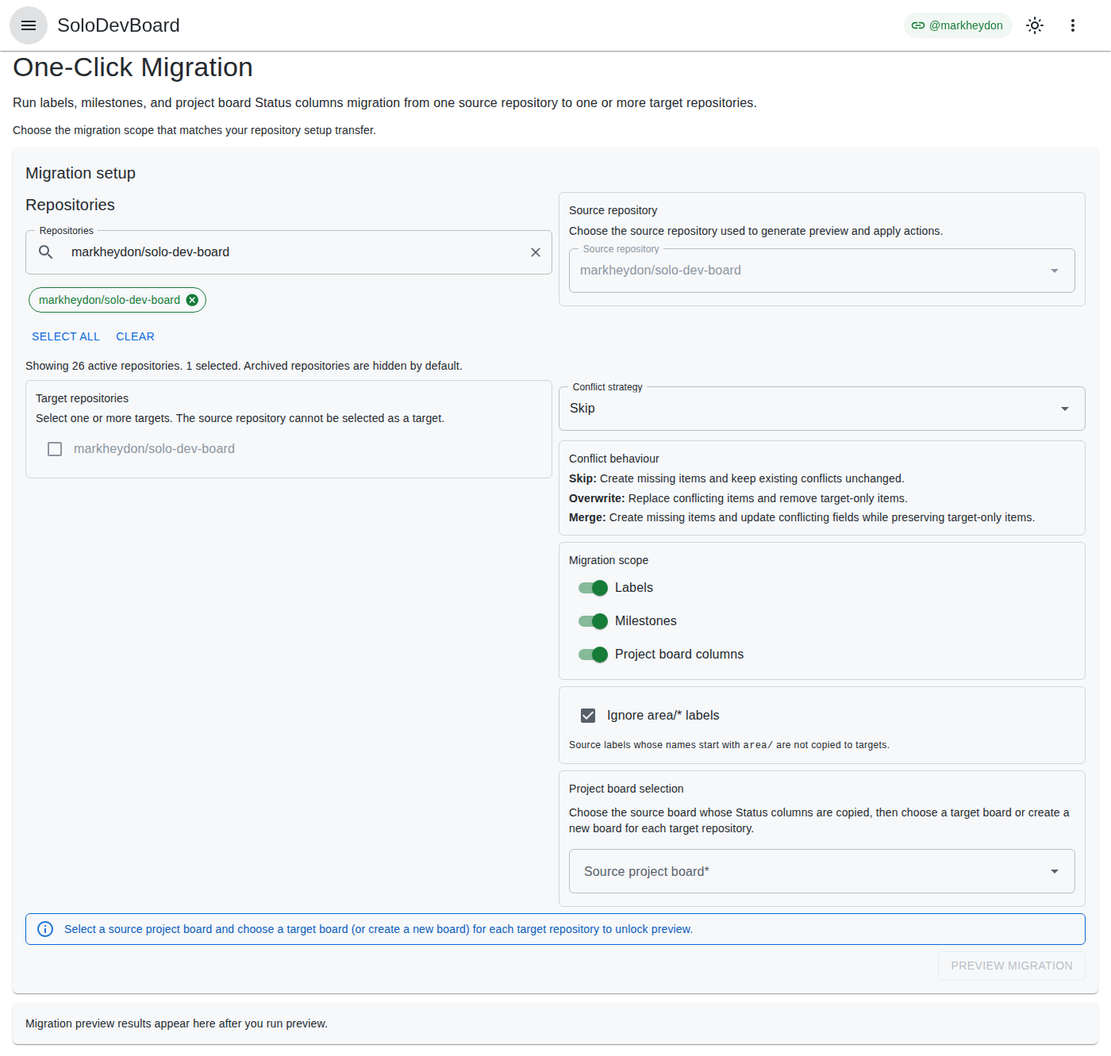
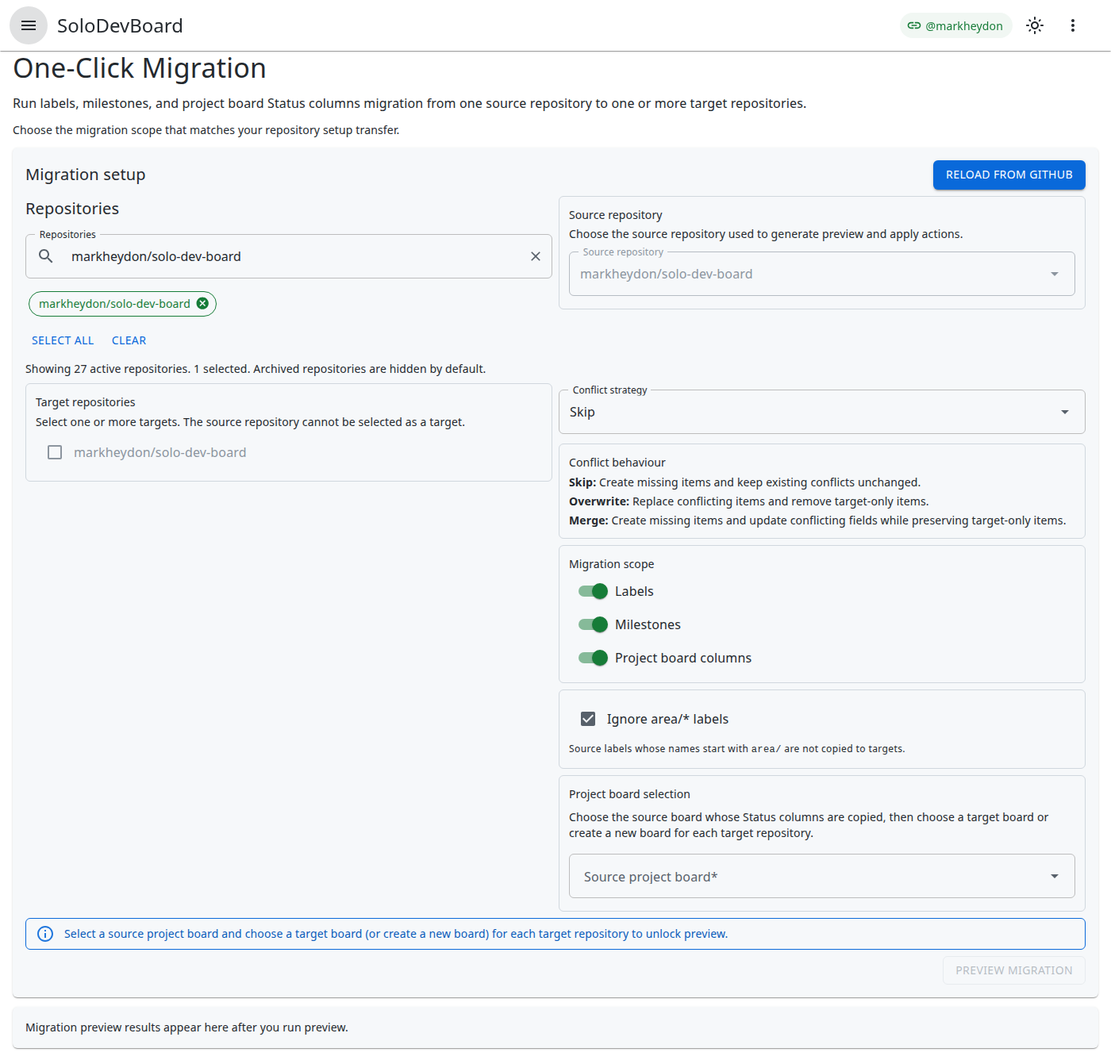
[Documentation] Release v1.2.0 changelog and docs alignment (#516)
* [Documentation] Release v1.2.0 changelog and milestone release-prep updates.

Promote Keep a Changelog [Unreleased] to [1.2.0] with full v1.2 feature notes.
Mark the v1.2 milestone ready to tag (30 closed, 0 open) across release plan,
implementation plan, backlog, project management, and decision log artefacts.

* [Documentation] Align v1.2 E2E inventory and hosted-auth HttpClient note.

Update Triage Playwright journey descriptions for Reload from GitHub and
disposition controls. Document separate OAuth and API HttpClient instances
for hosted sign-in operators.

* [Documentation] Recapture v1.2 user guide screenshots with docs-capture mode.

Refresh all 14 Hugo static images after v1.2 UI changes (Reload from GitHub,
custom Actions template source, Daily Focus board-scoped recommendations,
Triage Save and next session scope). Captured at 1400×900 light theme with
DocsCapture:Enabled=true against markheydon/solo-dev-board.

---------

diff --git a/tests/E2E/USER_DOCS_ALIGNMENT.md b/tests/E2E/USER_DOCS_ALIGNMENT.md
@@ -32,7 +32,7 @@ When you add or change an end-user feature, update the user guide, the relevant 
 | [One-Click Migration](../../website/content/docs/one-click-migration.md) | `/migrate` | `migrate.spec.ts`, `accessibility.spec.ts` | `one-click-migration/overview.png` | Tier 2 | Guide is Available: labels, milestones, and Projects v2 Status columns with keep/ignore `area/*` controls; **Reload from GitHub** keeps migration pickers. CI asserts setup shell, reload control, columns scope, nested ignore/keep `area/*` controls, disabled preview, and API failure feedback. |
 | [Label Manager](../../website/content/docs/label-manager.md) | `/labels` | `labels.spec.ts`, `accessibility.spec.ts` | `label-manager/overview.png` | Tier 2 | Guide describes three tabs, Labels-tab bulk delete ([#444](https://github.com/markheydon/solo-dev-board/issues/444)), taxonomy workflows, optional **Remove labels outside taxonomy** strict delete ([#380](https://github.com/markheydon/solo-dev-board/issues/380)), nested **Keep `area/*` labels** ([#446](https://github.com/markheydon/solo-dev-board/issues/446)), and **Reload from GitHub** in the repository selector; CI asserts tab strip, reload control, remove-outside control, sync keep-area control, disabled bulk delete, and repository load failure feedback. Empty-repository copy is covered by `LabelsTests`. |
 | [Board Rules Visualiser](../../website/content/docs/board-rules-visualiser.md) | `/board-rules` | `board-rules.spec.ts`, `accessibility.spec.ts` | `board-rules-visualiser/overview.png` | Tier 2 | Guide is Partially Available: compare mode, Reload from GitHub, unsupported-board Try again, and board selection now; full GitHub automation-rule retrieval later ([#437](https://github.com/markheydon/solo-dev-board/issues/437)). CI asserts selector region, compare toggle, Reload from GitHub in the header after the initial catalogue load (including placeholder-auth error states), and repository load failure retry. Unsupported-board Try again and compare-mode reload keep-selection are covered in bUnit. |
-| [Triage UI](../../website/content/docs/triage-ui.md) | `/triage` | `triage.spec.ts`, `accessibility.spec.ts` | `triage-ui/overview.png` | Tier 2 | Guide describes disposition-based Save and next flow, shortcuts, milestones, project board actions, and **Reload from GitHub** in session scope; CI asserts not-started region, reload control, and inline repository load failure with retry. |
+| [Triage UI](../../website/content/docs/triage-ui.md) | `/triage` | `triage.spec.ts`, `accessibility.spec.ts` | `triage-ui/overview.png` | Tier 2 | Guide describes disposition-based Save and next flow, shortcuts, milestones, project board actions, and **Reload from GitHub** in session scope; CI asserts session-scope reload control, inline repository load failure with retry, and disposition controls hidden before a session starts. |
 | [Actions Templates](../../website/content/docs/actions-templates.md) | `/actions-templates` | `actions-templates.spec.ts`, `accessibility.spec.ts` | `actions-templates/overview.png` | Tier 2 | Guide is Partially Available: browse, custom template repositories, parameterise, apply, drift, and **Reload from GitHub** now; persisted parameter profiles ([#436](https://github.com/markheydon/solo-dev-board/issues/436)) later. CI asserts built-in template browse/filter/select, reload control, built-in-only catalogue with empty custom source, custom source region and manual field shells (catalogue selector when repositories load), invalid custom source error with built-ins visible, and repository error state ([#499](https://github.com/markheydon/solo-dev-board/issues/499)). |
 | [Planning](../../website/content/docs/planning.md) | `/planning`, `/planning/daily-focus`, `/planning/backlog`, `/planning/iteration`, `/planning/repos`, `/planning/board-setup` (conditional) | `planning.spec.ts`, `accessibility.spec.ts` | `planning/daily-focus.png`, `planning/backlog.png`, `planning/iteration.png`, `planning/repos.png` | Tier 2 | Guide documents Daily Focus occupancy, recommendations, stalled Up Next, stalled review pull requests, Backlog Review grouping, Iteration (capacity, stall gate, Up Next batch, bulk milestone, candidate picker; [#283](https://github.com/markheydon/solo-dev-board/issues/283)–[#286](https://github.com/markheydon/solo-dev-board/issues/286)), conditional Board setup compatibility ([#445](https://github.com/markheydon/solo-dev-board/issues/445)), and Repo Management. User Guide sidebar and feature table follow app drawer order; Appearance and About live under a separate **App shell** Hugo section so prev/next stops at the last feature. CI asserts shell, tab strip, Daily Focus occupancy, recommendation, stalled Up Next, and stalled-review regions or empty/error/warning copy, Backlog filters and all grouping panels (including awaiting triage, epics near completion, and neglected repositories) or empty/error/warning copy, Planning Up Next and candidate regions or empty/error/warning copy, and Repos regions (including per-repository summary) or chrome error. |
 | [Appearance](../../website/content/docs/app-shell/appearance.md) | App bar (all shell pages) | `appearance.spec.ts`, `accessibility.spec.ts` | `appearance/theme-toggle.png` | Tier 1 | Guide describes Automatic → Light → Dark cycling and persistence; not a drawer route. Lives under User Guide **App shell** (`/docs/app-shell/`) with About; prev/next does not continue from feature guides. |

diff --git a/plan/DECISIONS.md b/plan/DECISIONS.md
@@ -259,7 +259,7 @@ Test coverage expectations for cache-hit, cache-miss, invalidation, TTL expiry, 
 **Date:** 2026-08-18  
 **Constitution:** [AGENTS.md — When Adding a New Feature](../AGENTS.md#when-adding-a-new-feature)  
 **Related:** [DEC-024](#dec-024-post-10-milestone-numbering), [`plan/PROJECT_MANAGEMENT.md`](PROJECT_MANAGEMENT.md)  
-**Summary:** After `v1.0.0`, maintain **one open GitHub milestone** at a time (currently **`v1.2 - Planning polish, Reload & Templates`**; release tag **`v1.2.0`** when shipped). **`v1.1 - Cross-Repo Planning & Refinement`** is closed (91 closed, 0 open; tag [`v1.1.0`](https://github.com/markheydon/solo-dev-board/releases/tag/v1.1.0), 2026-08-31). Locked-in `v1.2` issues are [#403](https://github.com/markheydon/solo-dev-board/issues/403) (board-scoped Daily Focus), Reload epic [#447](https://github.com/markheydon/solo-dev-board/issues/447) with [#449](https://github.com/markheydon/solo-dev-board/issues/449)–[#451](https://github.com/markheydon/solo-dev-board/issues/451), HttpClient split [#453](https://github.com/markheydon/solo-dev-board/issues/453), custom template repositories [#292](https://github.com/markheydon/solo-dev-board/issues/292), and Triage action-surface usability [#492](https://github.com/markheydon/solo-dev-board/issues/492). Window-focus refetch [#450](https://github.com/markheydon/solo-dev-board/issues/450) stays unmilestoned and ice-boxed. Do not recreate a separate milestone whose only purpose is Cross-Repo Planning — that increment shipped under `v1.1` (the brief unused v1.2.0 planning-only milestone was deleted on 2026-08-18). Platform-blocked work ([#293](https://github.com/markheydon/solo-dev-board/issues/293), [#391](https://github.com/markheydon/solo-dev-board/issues/391)) and newer ice-box catalogue work stay unmilestoned. **Epic → Feature → Story** applies when each level names real product structure: Epics are shippable themes spanning multiple features (not milestone buckets); Features group related stories/enablers ([#272](https://github.com/markheydon/solo-dev-board/issues/272) is a catch-up exception — classified as a feature without a parent epic); Stories are delivery units. Use GitHub sub-issues for parent links. During catch-up, milestone stories may sit without Feature parents when they complete shipped features ([#40](https://github.com/markheydon/solo-dev-board/issues/40), [#88](https://github.com/markheydon/solo-dev-board/issues/88), etc.). Implementation **phases** in `IMPLEMENTATION_PLAN.md` are historical sequencing for the v1.0 release only; the Project board **Phase** field is legacy for closed pre-1.0 milestones. Reject bucket epics that duplicate milestones, fabricated Features, and multiple concurrent open milestones.
+**Summary:** After `v1.0.0`, maintain **one open GitHub milestone** at a time. **`v1.2 - Planning polish, Reload & Templates`** is the current open milestone and is **ready to tag** as **`v1.2.0`** (30 closed, 0 open on GitHub; 2026-09-07). **`v1.1 - Cross-Repo Planning & Refinement`** is closed (91 closed, 0 open; tag [`v1.1.0`](https://github.com/markheydon/solo-dev-board/releases/tag/v1.1.0), 2026-08-31). Delivered `v1.2` scope: [#403](https://github.com/markheydon/solo-dev-board/issues/403) (board-scoped Daily Focus), Reload epic [#447](https://github.com/markheydon/solo-dev-board/issues/447) with [#449](https://github.com/markheydon/solo-dev-board/issues/449)–[#451](https://github.com/markheydon/solo-dev-board/issues/451), HttpClient split [#453](https://github.com/markheydon/solo-dev-board/issues/453), custom template repositories [#292](https://github.com/markheydon/solo-dev-board/issues/292), and Triage action-surface usability [#492](https://github.com/markheydon/solo-dev-board/issues/492). Window-focus refetch [#450](https://github.com/markheydon/solo-dev-board/issues/450) stays unmilestoned and ice-boxed. Do not recreate a separate milestone whose only purpose is Cross-Repo Planning — that increment shipped under `v1.1` (the brief unused v1.2.0 planning-only milestone was deleted on 2026-08-18). Platform-blocked work ([#293](https://github.com/markheydon/solo-dev-board/issues/293), [#391](https://github.com/markheydon/solo-dev-board/issues/391)) and newer ice-box catalogue work stay unmilestoned. **Epic → Feature → Story** applies when each level names real product structure: Epics are shippable themes spanning multiple features (not milestone buckets); Features group related stories/enablers ([#272](https://github.com/markheydon/solo-dev-board/issues/272) is a catch-up exception — classified as a feature without a parent epic); Stories are delivery units. Use GitHub sub-issues for parent links. During catch-up, milestone stories may sit without Feature parents when they complete shipped features ([#40](https://github.com/markheydon/solo-dev-board/issues/40), [#88](https://github.com/markheydon/solo-dev-board/issues/88), etc.). Implementation **phases** in `IMPLEMENTATION_PLAN.md` are historical sequencing for the v1.0 release only; the Project board **Phase** field is legacy for closed pre-1.0 milestones. Reject bucket epics that duplicate milestones, fabricated Features, and multiple concurrent open milestones.
 
 **Milestone naming:** GitHub milestones use `vX.Y - Descriptive name` (ASCII hyphen with spaces; no patch segment). Git release tags keep SemVer `vX.Y.Z` (MinVer). See [`plan/PROJECT_MANAGEMENT.md`](PROJECT_MANAGEMENT.md#milestones).
 

diff --git a/plan/IMPLEMENTATION_PLAN.md b/plan/IMPLEMENTATION_PLAN.md
@@ -12,7 +12,7 @@ Phases in this document are **historical sequencing for the v1.0 release**. Post
 - Phases 1–4 are complete. All six core feature areas are delivered (Label Manager, Audit Dashboard, One-Click Migration, Triage UI, Board Rules Visualiser, Actions Templates).
 - Phase 6 (Production Ready) is complete. Public release [`v1.0.0`](https://github.com/markheydon/solo-dev-board/releases/tag/v1.0.0) tagged on 2026-08-18.
 - **`v1.1 - Cross-Repo Planning & Refinement`** is complete (tag [`v1.1.0`](https://github.com/markheydon/solo-dev-board/releases/tag/v1.1.0), 2026-08-31): deferred v1.0 slices [#290](https://github.com/markheydon/solo-dev-board/issues/290) and [#291](https://github.com/markheydon/solo-dev-board/issues/291), Planning [#272](https://github.com/markheydon/solo-dev-board/issues/272)–[#288](https://github.com/markheydon/solo-dev-board/issues/288), OSS catalogue identification [#440](https://github.com/markheydon/solo-dev-board/issues/440), and post-release refinements ([#444](https://github.com/markheydon/solo-dev-board/issues/444)–[#446](https://github.com/markheydon/solo-dev-board/issues/446), [#465](https://github.com/markheydon/solo-dev-board/issues/465), [#473](https://github.com/markheydon/solo-dev-board/issues/473), [#464](https://github.com/markheydon/solo-dev-board/issues/464)–[#471](https://github.com/markheydon/solo-dev-board/issues/471)).
-- **`v1.2 - Planning polish, Reload & Templates`** is the open milestone (tag `v1.2.0` when shipped): Daily Focus board-scope [#403](https://github.com/markheydon/solo-dev-board/issues/403), Reload [#447](https://github.com/markheydon/solo-dev-board/issues/447)/[#449](https://github.com/markheydon/solo-dev-board/issues/449)/[#451](https://github.com/markheydon/solo-dev-board/issues/451), HttpClient split [#453](https://github.com/markheydon/solo-dev-board/issues/453), custom templates [#292](https://github.com/markheydon/solo-dev-board/issues/292), Triage action-surface usability [#492](https://github.com/markheydon/solo-dev-board/issues/492).
+- **`v1.2 - Planning polish, Reload & Templates`** is ready to tag (30 closed, 0 open on the GitHub milestone; release tag `v1.2.0` after staging smoke test): Daily Focus board-scope [#403](https://github.com/markheydon/solo-dev-board/issues/403), Reload [#447](https://github.com/markheydon/solo-dev-board/issues/447)/[#449](https://github.com/markheydon/solo-dev-board/issues/449)/[#451](https://github.com/markheydon/solo-dev-board/issues/451), HttpClient split [#453](https://github.com/markheydon/solo-dev-board/issues/453), custom templates [#292](https://github.com/markheydon/solo-dev-board/issues/292), Triage action-surface usability [#492](https://github.com/markheydon/solo-dev-board/issues/492).
 - [#293](https://github.com/markheydon/solo-dev-board/issues/293) (hosted private Projects v2) and [#391](https://github.com/markheydon/solo-dev-board/issues/391) stay unmilestoned platform-blocked backlog. Window-focus refetch [#450](https://github.com/markheydon/solo-dev-board/issues/450) stays unmilestoned and ice-boxed until Reload ships.
 
 For the full feature scope, see [SCOPE.md](SCOPE.md). For open work, see [GitHub Issues](https://github.com/markheydon/solo-dev-board/issues) and [Project #8](https://github.com/users/markheydon/projects/8). The backlog index is at [BACKLOG.md](BACKLOG.md).
@@ -262,16 +262,16 @@ All locked-in leaves are closed. Shipped as [`v1.1.0`](https://github.com/markhe
 
 **Milestone:** `v1.2 - Planning polish, Reload & Templates` (release tag `v1.2.0`)
 
-**Status:** Open (declared 2026-08-31).
+**Status:** Ready to tag — **30 closed, 0 open** on GitHub milestone `v1.2 - Planning polish, Reload & Templates` (declared 2026-08-31).
 
 ### Key Tasks
 
-- [ ] Optional board-scoped Daily Focus recommendations, default remains all included repositories. _(#403)_
-- [ ] Reload from GitHub on Board Rules, keeping repository (and comparison) selection. _(#449)_
-- [ ] Roll Reload from GitHub out to remaining GitHub-backed surfaces. _(#451, parent epic #447)_
-- [ ] Split hosted GitHub OAuth and API HttpClients for REST header defaults. _(#453)_
+- [x] Optional board-scoped Daily Focus recommendations, default remains all included repositories. _(#403)_
+- [x] Reload from GitHub on Board Rules, keeping repository (and comparison) selection. _(#449)_
+- [x] Roll Reload from GitHub out to remaining GitHub-backed surfaces. _(#451, parent epic #447)_
+- [x] Split hosted GitHub OAuth and API HttpClients for REST header defaults. _(#453)_
 - [x] Custom workflow template repositories: one GitHub YAML source (catalogue selector or manual field), inferred parameters, apply/drift parity, last-used localStorage. _(#292, DEC-038)_
-- [ ] Unify the Triage action surface into Save and next (process) versus duplicate versus skip — usability only, not opinionated-workflow integration. _(#492)_
+- [x] Unify the Triage action surface into Save and next (process) versus duplicate versus skip — usability only, not opinionated-workflow integration. _(#492)_
 
 ### Delivery sequence
 

diff --git a/plan/PROJECT_README.md b/plan/PROJECT_README.md
@@ -17,11 +17,11 @@ Refresh this file during each [PM progress review](../.agents/workflows/pm-progr
 
 SoloDevBoard provides a single pane of glass for solo developers managing GitHub workloads across multiple repositories.
 
-**Status:** On track. Public releases [v1.0.0](https://github.com/markheydon/solo-dev-board/releases/tag/v1.0.0) (18 August 2026) and [v1.1.0](https://github.com/markheydon/solo-dev-board/releases/tag/v1.1.0) (31 August 2026). Open milestone: [`v1.2 - Planning polish, Reload & Templates`](https://github.com/markheydon/solo-dev-board/milestone/8).
+**Status:** On track. Public releases [v1.0.0](https://github.com/markheydon/solo-dev-board/releases/tag/v1.0.0) (18 August 2026), [v1.1.0](https://github.com/markheydon/solo-dev-board/releases/tag/v1.1.0) (31 August 2026), and forthcoming [v1.2.0](https://github.com/markheydon/solo-dev-board/releases/tag/v1.2.0) (ready to tag). Open milestone: [`v1.2 - Planning polish, Reload & Templates`](https://github.com/markheydon/solo-dev-board/milestone/8) — **30 closed, 0 open**.
 
 ### Current focus
 
-**`v1.2`** — Daily Focus board-scope ([#403](https://github.com/markheydon/solo-dev-board/issues/403)), Reload from GitHub ([#447](https://github.com/markheydon/solo-dev-board/issues/447), [#449](https://github.com/markheydon/solo-dev-board/issues/449), [#451](https://github.com/markheydon/solo-dev-board/issues/451)), HttpClient split ([#453](https://github.com/markheydon/solo-dev-board/issues/453)), custom template repositories ([#292](https://github.com/markheydon/solo-dev-board/issues/292)), Triage action-surface usability ([#492](https://github.com/markheydon/solo-dev-board/issues/492)). Do not start platform-blocked [#293](https://github.com/markheydon/solo-dev-board/issues/293) or [#391](https://github.com/markheydon/solo-dev-board/issues/391). Window-focus refetch ([#450](https://github.com/markheydon/solo-dev-board/issues/450)) stays unmilestoned and ice-boxed.
+**`v1.2`** — delivery complete. Tag **`v1.2.0`** after staging smoke test and GitHub Release publication. Do not start platform-blocked [#293](https://github.com/markheydon/solo-dev-board/issues/293) or [#391](https://github.com/markheydon/solo-dev-board/issues/391). Window-focus refetch ([#450](https://github.com/markheydon/solo-dev-board/issues/450)) stays unmilestoned and ice-boxed.
 
 ### Release history
 
@@ -33,13 +33,13 @@ SoloDevBoard provides a single pane of glass for solo developers managing GitHub
 | Visualisation + Templates | `v0.4 - Board Rules Visualiser + Workflow Templates` | `v0.4.0` | Complete |
 | Production Ready | `v1.0 - Production Ready` | `v1.0.0` | Complete |
 | Cross-Repo Planning & Refinement | `v1.1 - Cross-Repo Planning & Refinement` | `v1.1.0` | Complete — [`v1.1.0`](https://github.com/markheydon/solo-dev-board/releases/tag/v1.1.0) (2026-08-31) |
-| Planning polish, Reload & Templates | `v1.2 - Planning polish, Reload & Templates` | `v1.2.0` | Open |
+| Planning polish, Reload & Templates | `v1.2 - Planning polish, Reload & Templates` | `v1.2.0` | Ready to tag |
 
 Post-1.0 model: one open milestone at a time ([DEC-027](https://github.com/markheydon/solo-dev-board/blob/main/plan/DECISIONS.md#dec-027-post-10-milestone-and-work-item-hierarchy)).
 
 ### Current snapshot
 
-Snapshot date: 1 September 2026.
+Snapshot date: 7 September 2026.
 
 | Milestone | Closed | Open | Complete |
 |---|---:|---:|---|
@@ -49,9 +49,9 @@ Snapshot date: 1 September 2026.
 | `v0.4 - Board Rules Visualiser + Workflow Templates` | 25 | 0 | 100% |
 | `v1.0 - Production Ready` | 78 | 0 | 100% |
 | `v1.1 - Cross-Repo Planning & Refinement` | 91 | 0 | 100% |
-| `v1.2 - Planning polish, Reload & Templates` | 0 | 7 | 0% |
+| `v1.2 - Planning polish, Reload & Templates` | 30 | 0 | 100% |
 
-Open milestone: `v1.2 - Planning polish, Reload & Templates`. Phase stays blank for this increment ([DEC-027](https://github.com/markheydon/solo-dev-board/blob/main/plan/DECISIONS.md#dec-027-post-10-milestone-and-work-item-hierarchy)).
+Open milestone: `v1.2 - Planning polish, Reload & Templates` (ready to tag `v1.2.0`). Phase stays blank for this increment ([DEC-027](https://github.com/markheydon/solo-dev-board/blob/main/plan/DECISIONS.md#dec-027-post-10-milestone-and-work-item-hierarchy)).
 
 ### Key resources
 

diff --git a/CHANGELOG.md b/CHANGELOG.md
@@ -7,9 +7,35 @@ and this project adheres to [Semantic Versioning](https://semver.org/spec/v2.0.0
 
 ## [Unreleased]
 
+## [1.2.0] - 2026-09-07
+
+Planning polish, Reload & Templates release. GitHub milestone [`v1.2 - Planning polish, Reload & Templates`](https://github.com/markheydon/solo-dev-board/milestone/8) closed with 30 issues delivered.
+
 ### Added
 
+- **Planning** — optional **Limit Recommended today to the selected planning board** switch on Daily Focus; the default remains all included repositories ([#403](https://github.com/markheydon/solo-dev-board/issues/403)).
+- **Reload from GitHub** — page-level reload that keeps repository, board, and in-page selections across Audit Dashboard, Repositories, One-Click Migration, Label Manager, Board Rules Visualiser, Triage UI, Actions Templates, and related catalogue surfaces ([#447](https://github.com/markheydon/solo-dev-board/issues/447), [#449](https://github.com/markheydon/solo-dev-board/issues/449), [#451](https://github.com/markheydon/solo-dev-board/issues/451)).
 - **Actions Templates** — load one additional GitHub `owner/name` custom template source via the catalogue selector or a manual field, merge `.github/workflows` YAML with built-ins, and remember the last-used source in browser storage ([#292](https://github.com/markheydon/solo-dev-board/issues/292), [#497](https://github.com/markheydon/solo-dev-board/issues/497)).
+- **Triage UI** — disposition-based **Save and next**, **Close as duplicate and next**, and **Skip and next** primary actions with keyboard shortcuts ([#492](https://github.com/markheydon/solo-dev-board/issues/492)).
+
+### Changed
+
+- **Triage UI** — milestone and project board fields commit with the quick label in one **Save and next** action instead of separate primary buttons ([#492](https://github.com/markheydon/solo-dev-board/issues/492)).
+- **Hosted authentication** — separate named `HttpClient` instances for GitHub OAuth token exchange and GitHub REST API calls so REST requests use the correct `Accept` and `User-Agent` defaults ([#453](https://github.com/markheydon/solo-dev-board/issues/453)).
+
+### Fixed
+
+- **Triage UI** — closing an item as duplicate no longer removes labels that were not part of the duplicate disposition ([#488](https://github.com/markheydon/solo-dev-board/issues/488), [#502](https://github.com/markheydon/solo-dev-board/issues/502)).
+- **Triage UI** — **Process** no longer replaces the full label set when only a quick label is applied ([#502](https://github.com/markheydon/solo-dev-board/issues/502)).
+
+### Known limitations (not in this release)
+
+- Persisted default workflow template parameter profiles ([#436](https://github.com/markheydon/solo-dev-board/issues/436)) remain planned for a later release.
+- Server-backed persistence for the custom Actions template source waits on an Aspire product store ([#498](https://github.com/markheydon/solo-dev-board/issues/498), blocked by [#391](https://github.com/markheydon/solo-dev-board/issues/391)).
+- Private user-owned Projects v2 under hosted GitHub App sign-in remain platform-blocked ([#293](https://github.com/markheydon/solo-dev-board/issues/293)).
+- Repositories Add / Remove / Bulk / Edit / More actions remain stubs ([#435](https://github.com/markheydon/solo-dev-board/issues/435)).
+- Full GitHub Project v2 automation-rule retrieval remains a later Board Rules slice ([#437](https://github.com/markheydon/solo-dev-board/issues/437)).
+- Window-focus refetch after Reload from GitHub remains ice-boxed ([#450](https://github.com/markheydon/solo-dev-board/issues/450)).
 
 ## [1.1.0] - 2026-08-31
 

diff --git a/plan/BACKLOG.md b/plan/BACKLOG.md
@@ -13,7 +13,7 @@ For historical backlog content (pre-migration), see [archive/BACKLOG-2026-07-18.
 | [Project info pane README](PROJECT_README.md) | Canonical copy of the Project #8 info pane text |
 | [Milestones](https://github.com/markheydon/solo-dev-board/milestones) | Release targeting |
 
-## Roadmap status (2026-08-31)
+## Roadmap status (2026-09-07)
 
 | Release | GitHub milestone | Release tag | Status |
 |---------|------------------|-------------|--------|
@@ -23,9 +23,9 @@ For historical backlog content (pre-migration), see [archive/BACKLOG-2026-07-18.
 | Visualisation + Templates | `v0.4 - Board Rules Visualiser + Workflow Templates` | `v0.4.0` | Complete |
 | Production Ready | `v1.0 - Production Ready` | `v1.0.0` | Complete — [`v1.0.0`](https://github.com/markheydon/solo-dev-board/releases/tag/v1.0.0) (2026-08-18) |
 | Cross-Repo Planning & Refinement | `v1.1 - Cross-Repo Planning & Refinement` | `v1.1.0` | Complete — [`v1.1.0`](https://github.com/markheydon/solo-dev-board/releases/tag/v1.1.0) (2026-08-31) |
-| Planning polish, Reload & Templates | `v1.2 - Planning polish, Reload & Templates` | `v1.2.0` | Open — [milestone](https://github.com/markheydon/solo-dev-board/milestone/8) |
+| Planning polish, Reload & Templates | `v1.2 - Planning polish, Reload & Templates` | `v1.2.0` | Ready to tag — [milestone](https://github.com/markheydon/solo-dev-board/milestone/8) (30 closed, 0 open) |
 
-The open milestone is `v1.2 - Planning polish, Reload & Templates`. Further work stays unmilestoned until the next release is declared.
+The open milestone is `v1.2 - Planning polish, Reload & Templates`. Tag `v1.2.0` after staging smoke test and GitHub Release publication. Further work stays unmilestoned until the next release is declared.
 
 **Unmilestoned backlog:** [#293](https://github.com/markheydon/solo-dev-board/issues/293) (platform-blocked private user-owned Projects v2 under hosted sign-in); [#391](https://github.com/markheydon/solo-dev-board/issues/391) (Aspire PM settings store); [#498](https://github.com/markheydon/solo-dev-board/issues/498) (persist Actions template source — blocked by #391); [#450](https://github.com/markheydon/solo-dev-board/issues/450) (window-focus refetch — ice-box, later Reload follow-up); ice-box catalogue and hygiene work ([#381](https://github.com/markheydon/solo-dev-board/issues/381), [#397](https://github.com/markheydon/solo-dev-board/issues/397), [#411](https://github.com/markheydon/solo-dev-board/issues/411), [#435](https://github.com/markheydon/solo-dev-board/issues/435)–[#439](https://github.com/markheydon/solo-dev-board/issues/439), [#470](https://github.com/markheydon/solo-dev-board/issues/470)). Closed ice-box direction: [#475](https://github.com/markheydon/solo-dev-board/issues/475) (see [`PRODUCT_OPERATING_SYSTEM.md`](PRODUCT_OPERATING_SYSTEM.md)). See [open issues](https://github.com/markheydon/solo-dev-board/issues?q=is%3Aissue+is%3Aopen).
 

diff --git a/tests/E2E/CRITICAL_JOURNEYS.md b/tests/E2E/CRITICAL_JOURNEYS.md
@@ -42,7 +42,7 @@ For data-driven journeys against a real GitHub account, run the PAT suite locall
 | Board Rules selector, compare mode, and Reload from GitHub | `board-rules.spec.ts` | Selector region, compare toggle, Reload from GitHub when the catalogue loads (placeholder auth keeps repository error retry), and repository load failure. Compare-mode reload and unsupported-board Try again keep-selection are covered in bUnit. |
 | Label Manager taxonomy tabs, bulk delete shell, keep `area/*` controls, and repository load failure feedback | `labels.spec.ts` | Tab strip, disabled bulk delete, nested keep `area/*` checkbox on Recommended taxonomy when remove-outside is enabled, Synchronise keep control, and repository load failure in the feedback region. |
 | Workflow template browse, filter, select, and custom source shell | `actions-templates.spec.ts` | Built-in templates load with an empty custom source; custom source region and manual field shells; invalid custom source error leaves built-ins visible; apply repository selector shows error ([#499](https://github.com/markheydon/solo-dev-board/issues/499)). |
-| Triage not-started region without repositories | `triage.spec.ts` | Shell heading and no-repositories alert. |
+| Triage shell, Reload from GitHub, and disposition action surface | `triage.spec.ts` | Session-scope reload control, inline repository load failure with retry, and disposition controls hidden before a session starts. |
 | Planning — Daily Focus, Backlog Review, Iteration, and Repo Management shells | `planning.spec.ts` | Shared chrome, Daily Focus occupancy, recommendations, stalled Up Next, and stalled-review regions or empty/error/warning copy, Backlog Review filters and all grouping panels (urgent, ready, awaiting triage, blocked, epics near completion, neglected repositories) or empty/error/warning copy, Iteration Planning Up Next, capacity region, conditional stall gate and pause line, and candidate regions or empty/error/warning copy, Repos tab thresholds, exclusions, and per-repository summary or chrome error with retry. Dedicated `Daily Focus`, `Backlog Review`, `Iteration Planning`, and `Repo Management` describe blocks assert route shells and tab-specific no-board/empty/error states. |
 
 ### Tier 3 — Out of CI scope (manual or future)

diff --git a/plan/RELEASE_PLAN.md b/plan/RELEASE_PLAN.md
@@ -134,7 +134,7 @@ Application version numbers are calculated automatically at build time by [MinVe
 
 **Out of milestone:** Window-focus refetch ([#450](https://github.com/markheydon/solo-dev-board/issues/450), ice-box); hosted private Projects v2 ([#293](https://github.com/markheydon/solo-dev-board/issues/293)); Aspire PM settings store ([#391](https://github.com/markheydon/solo-dev-board/issues/391)); newer ice-box catalogue and hygiene work ([#381](https://github.com/markheydon/solo-dev-board/issues/381), [#397](https://github.com/markheydon/solo-dev-board/issues/397), [#411](https://github.com/markheydon/solo-dev-board/issues/411), [#435](https://github.com/markheydon/solo-dev-board/issues/435)–[#439](https://github.com/markheydon/solo-dev-board/issues/439), [#470](https://github.com/markheydon/solo-dev-board/issues/470)).
 
-**Status:** Open (declared 2026-08-31). GitHub milestone [`v1.2 - Planning polish, Reload & Templates`](https://github.com/markheydon/solo-dev-board/milestone/8). Release tag `v1.2.0` when shipped.
+**Status:** Ready to tag — **30 closed, 0 open** on GitHub milestone `v1.2 - Planning polish, Reload & Templates`. Leave the milestone open until the **`v1.2.0`** git tag and GitHub Release are published (see [Release Process](#release-process)).
 
 **Target:** Not set — dates follow actual start per Roadmap date guidelines.
 

diff --git a/plan/SCOPE.md b/plan/SCOPE.md
@@ -136,4 +136,5 @@ The following are explicitly **not** in scope for the current version of SoloDev
 | 2026-09-01 | Added Triage action-surface usability ([#492](https://github.com/markheydon/solo-dev-board/issues/492)) to **`v1.2`**. Screen layout only (Save and next / duplicate / skip); opinionated-workflow integration stays later. | Solo developer |
 | 2026-09-02 | Custom template repositories (#292) specified for **`v1.2`**: one GitHub YAML source, inferred `{{tokens}}`, merged catalogue, localStorage last-used only (DEC-038). Server persistence and parameter profiles (#436) stay later. | Solo developer |
 | 2026-09-04 | Custom template source UI (#292) amended: catalogue `RepositorySelector` plus manual `owner/name` field (DEC-038 amended). Typed-field-only source rejected after PR #501 dogfood. | Solo developer |
+| 2026-09-07 | **`v1.2 - Planning polish, Reload & Templates`** delivery complete (30 closed, 0 open). Ready to tag [`v1.2.0`](https://github.com/markheydon/solo-dev-board/releases/tag/v1.2.0) after staging smoke test. User guides and changelog updated; window-focus refetch (#450) and server-backed template source (#498) stay later. | Solo developer |
 

diff --git a/docs/hosted-authentication.md b/docs/hosted-authentication.md
@@ -75,6 +75,15 @@ Full OAuth callback and post-login journeys remain manual or staging validation.
 - You can also sign out manually from the app menu at any time when hosted sign-in is enabled.
 - Admission control is applied after authentication, based on allow-list configuration.
 
+## Outbound HTTP clients
+
+Hosted sign-in registers two named `HttpClient` instances:
+
+- **`HostedGitHubOAuthClient`** — OAuth token exchange and refresh against `github.com` (form-encoded requests).
+- **`GitHubApi`** — GitHub REST API calls after sign-in (JSON `Accept` and application `User-Agent` defaults).
+
+Splitting OAuth and API traffic avoids sending REST headers on token endpoints and keeps telemetry and handler configuration scoped per use case ([#453](https://github.com/markheydon/solo-dev-board/issues/453)).
+
 ## Projects v2 access under hosted sign-in
 
 GitHub App sign-in can load **public** Projects v2 boards linked to a repository, but **private user-owned** Projects v2 are often inaccessible to the app token even when you are project admin. GitHub may report linked boards that SoloDevBoard cannot read.

diff --git a/tests/E2E/README.md b/tests/E2E/README.md
@@ -22,7 +22,7 @@ Published user guides must stay aligned with these tests like-for-like. See [USE
 | `board-rules.spec.ts` | Board Rules selector region, compare mode, Reload from GitHub when the catalogue loads, and repository load failure |
 | `labels.spec.ts` | Label Manager shell, tabs, and repository load failure feedback |
 | `actions-templates.spec.ts` | Built-in template browse/filter/select, custom source region and manual field, and repository error state |
-| `triage.spec.ts` | Triage shell and no-repositories alert without a live GitHub connection |
+| `triage.spec.ts` | Triage shell, session-scope Reload from GitHub, inline repository load failure, and disposition controls hidden before a session starts |
 | `planning.spec.ts` | Planning — Daily Focus occupancy, recommendations, stalled Up Next, stalled-review, Backlog Review, and Iteration shells, plus Repos tab threshold, exclusion, and summary regions or chrome error |
 | `accessibility.spec.ts` | WCAG 2.1 AA axe-core scan of Tier 1–2 journeys in light and dark mode; labelled shell controls; isolated snackbar contrast scan |
 

diff --git a/plan/PROJECT_MANAGEMENT.md b/plan/PROJECT_MANAGEMENT.md
@@ -118,7 +118,7 @@ The descriptive suffix names the milestone theme; it is not repeated in the rele
 | `v0.4 - Board Rules Visualiser + Workflow Templates` | `v0.4.0` | Closed | |
 | `v1.0 - Production Ready` | `v1.0.0` | Closed | Public release (2026-08-18) |
 | `v1.1 - Cross-Repo Planning & Refinement` | `v1.1.0` | Closed | Shipped 2026-08-31 — **91 closed, 0 open**. |
-| `v1.2 - Planning polish, Reload & Templates` | `v1.2.0` | Open | Declared 2026-08-31. Phase stays blank ([DEC-027](DECISIONS.md#dec-027-post-10-milestone-and-work-item-hierarchy)). |
+| `v1.2 - Planning polish, Reload & Templates` | `v1.2.0` | Open | Ready to tag — **30 closed, 0 open** (declared 2026-08-31). |
 
 The unused `v1.2.0 - Cross-Repo Planning` milestone was closed then **deleted** on 2026-08-18 after work moved to `v1.1 - Cross-Repo Planning & Refinement`. The current `v1.2` milestone is a later, different increment (Planning polish, Reload, and templates), not a revival of that deleted planning-only bucket.
 
